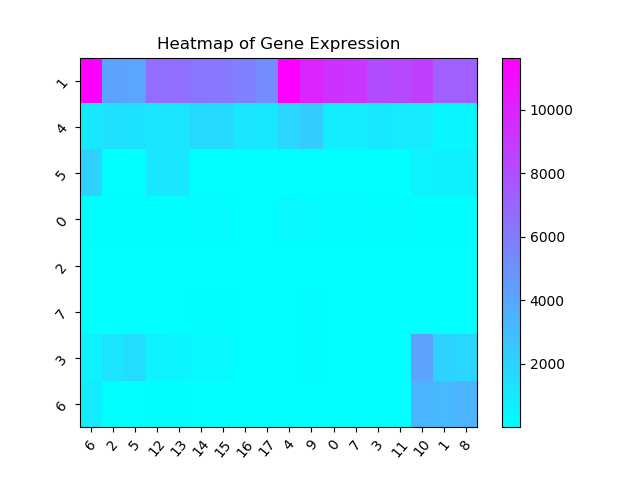
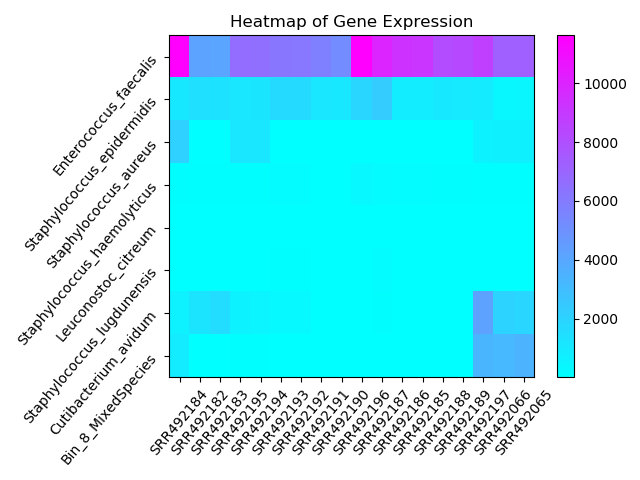
Update

diff --git a/Week13/Clustering.py b/Week13/Clustering.py
@@ -20,7 +20,18 @@ X=df.values
 X=X[leaves_rows,:][:,leaves_cols]
 plt.figure()
 #labels=df.rows
-labels=leaves_cols
+#labels=leaves_cols
+stagenames=list(df)
+print stagenames
+labels=[]
+for i in leaves_cols:
+    labels.append(stagenames[i])
+
+stagenames1=df.index
+print stagenames1
+labels1=[]
+for i in leaves_rows:
+    labels1.append(stagenames1[i])
 #labels=labels[leaves_cols]
 m = np.max(np.abs(X))
 mini=np.min(np.abs(X))
@@ -41,18 +52,20 @@ plt.xticks(            # Edit the xticks being shown
 	)
 plt.yticks(            # Edit the xticks being shown
 	range(X.shape[0]), # ... use the values centered on each column of pixels
-	leaves_rows,            # ... which corresponds to the indices of our labels
+	labels1,            # ... which corresponds to the indices of our labels
 	rotation=50,       # ... and rotate the labels 50 degrees counter-clockwise
 	)
 #plt.yticks([])         # Edit the ticks on the y-axis to show....NOTHING
 plt.colorbar()         # Add a bar to the right side of the plot which shows the scale correlating the colors to the pixel values
 #clst.dendrogram(linkage_cols,no_plot=False)
+plt.tight_layout()
 plt.savefig("clean_heatmap.png") # Save the image
+plt.tight_layout()
 plt.close() # Close the canvas 
 
 plt.figure()
 clst.dendrogram(linkage_cols)
-plt.savefig('dendro.png')
+plt.savefig('dendro.png',box='tight')
 
 plt.close()
 
